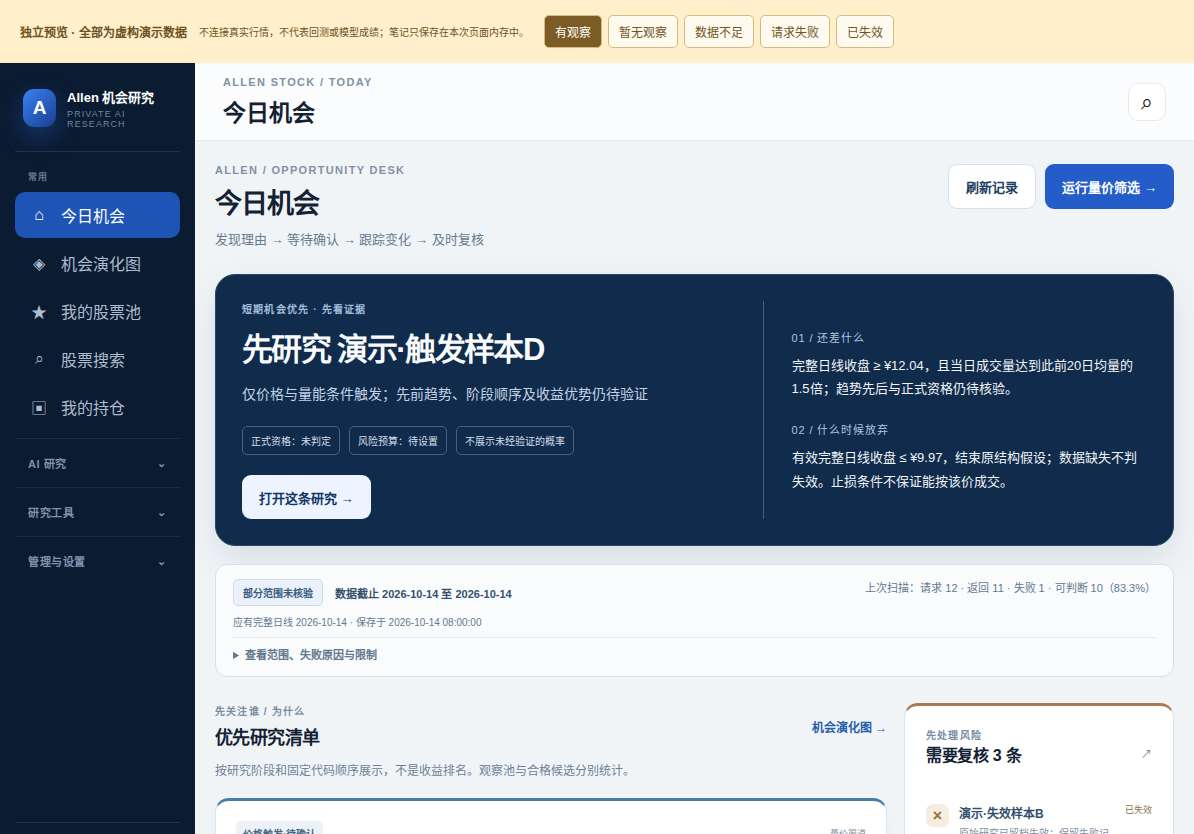
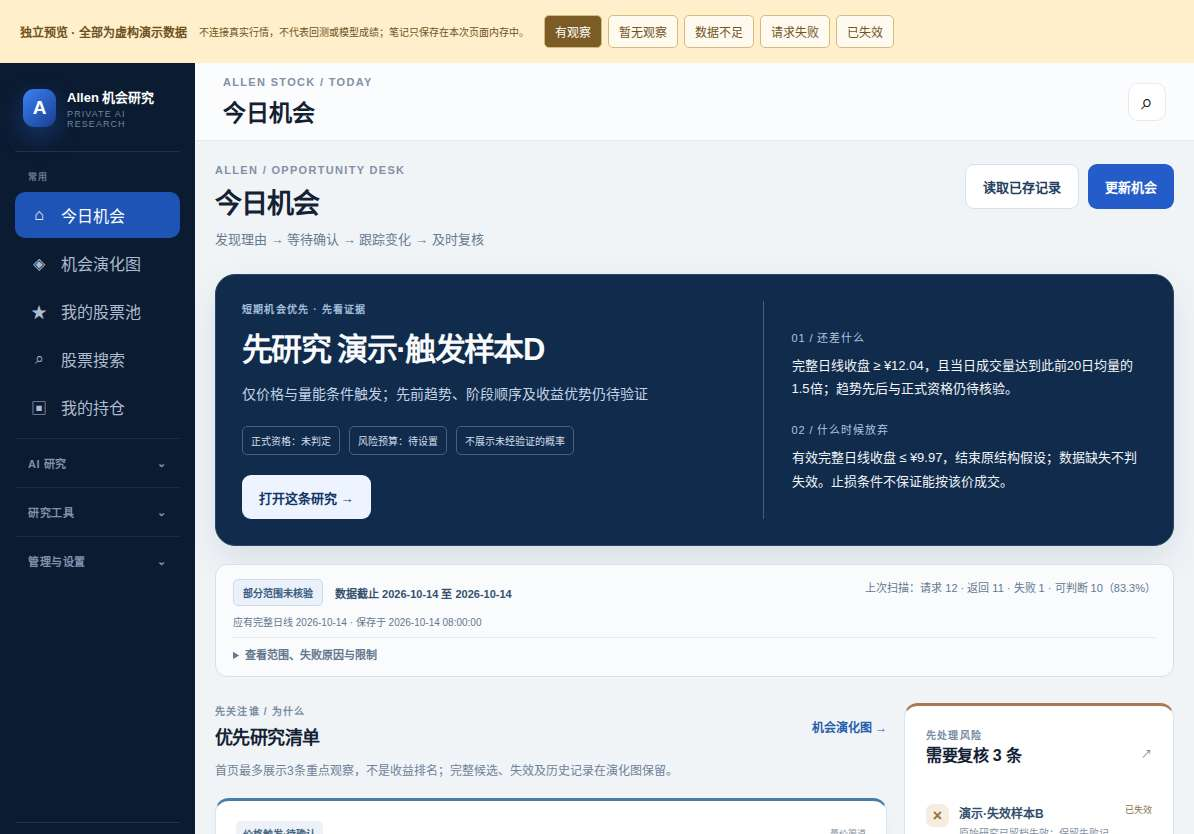
Refresh reviewed screenshots for the one-click opportunity workflow

Changed region(s): [[0.1859, 0.9041, 0.5578, 0.9353], [0.8057, 0.1871, 0.9916, 0.2494]]

diff --git a/previews/workbench-v2/README.md b/previews/workbench-v2/README.md
@@ -1,21 +1,17 @@
-# Allen 机会研究台：实际截图
+# 最新预览：一键更新与独立离线核验
 
-以下均为 Chromium 1194×834 的实际截图，全部为虚构演示数据，不是实时行情、回测或模型成绩。
+全部截图为虚构演示数据，不代表真实行情、模型成绩或回测收益。
 
-代码提交：14af3096b4e3844fc9136f39492a123382b1da57
+对应代码：5515a5d630ef6f9cd05da58f4b4542fedfaa3e3c
 
-[通过的验收运行](https://github.com/460728888-alt/AllenPt1/actions/runs/40836905463)。代码分支与截图分支分开保留，截图提交不改变已验收代码。
-
-今日机会：
+[完整通过的验收](https://github.com/460728888-alt/AllenPt1/actions/runs/40841570420)，包含152项单元测试、两个时区的真实临时数据库与整站检查、三种尺寸浏览器检查和一键更新。离线工具只运行了合成自检，不证明真实准确率提升。
 
 ![今日机会](home.jpg)
 
-机会演化图：
-
 ![机会演化图](evolution.jpg)
-
-个股研究档案：
 
 ![个股研究档案](archive.jpg)
 
-完整页面、五种数据状态、手机和桌面截图，以及独立 HTML 预览位于上述 Actions 的 Allen-workbench-v2-preview-and-evidence 产物中（保留至 2026-11-05）。没有对外部署。
+[独立HTML、截图、离线框架合成报告与日志](https://github.com/460728888-alt/AllenPt1/actions/runs/40841570420#artifacts)，保留至2026-11-05。
+
+截图分支仅存放审阅材料，正式代码在upgrade/opportunity-workbench-v2。没有部署。
